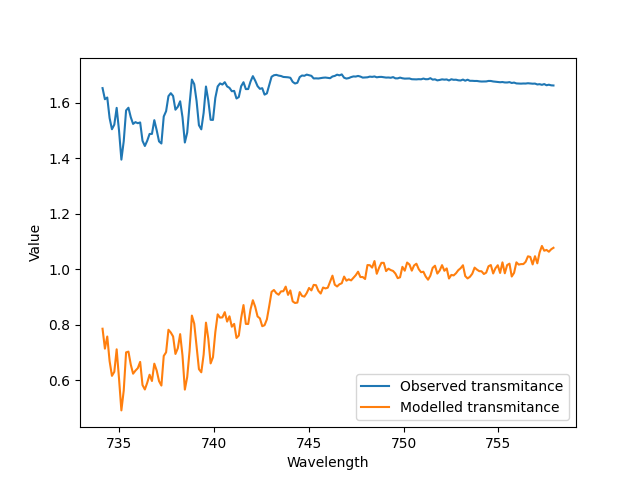
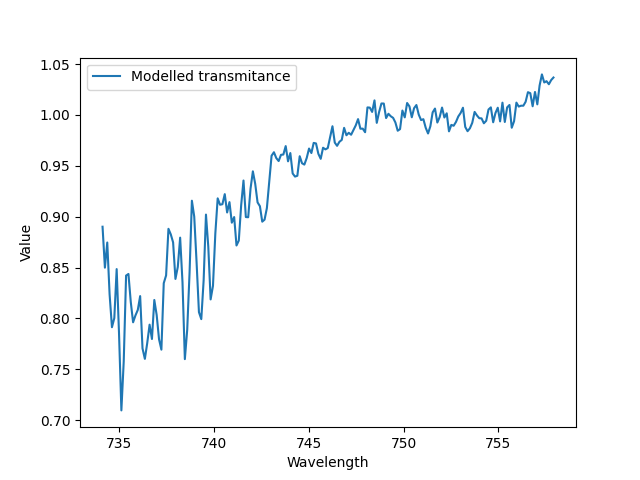
final

diff --git a/PCA.py b/PCA.py
@@ -32,7 +32,7 @@ mean_spectrum = np.mean(tau_value, axis=0)
 tau_centered = tau_value - mean_spectrum
 tau_nan = np.isnan(tau_centered)
 print("Number of NaN values in tau_centered:", np.sum(tau_nan))
-pca = PCA(n_components=50, svd_solver='full').fit(tau_centered)
+pca = PCA(n_components=20, svd_solver='full').fit(tau_centered)
 components = pca.components_
 print(components.shape)
 
@@ -49,7 +49,7 @@ plt.tight_layout()
 #plt.savefig("PCA_tau")
 plt.close()
 
-print(f"Explained variance by 50 PCs: {np.sum(pca.explained_variance_ratio_):.2%}")
+print(f"Explained variance by 20 PCs: {np.sum(pca.explained_variance_ratio_):.2%}")
 
 tau_pca = pca.transform(tau_centered)  
 tau_reconstructed = pca.inverse_transform(tau_pca)  
@@ -142,18 +142,20 @@ for m in m_values:
             plt.xlabel("Wavelength (nm)")
             plt.ylabel("Reflectance")
             plt.legend()
-            plt.savefig("pic_PCA/PCA_fit_reflectance_m3_n50")
+            plt.savefig("pic_PCA/PCA_fit_reflectance_m3_n20")
             plt.close()
 
             b_fit = np.array(popt[m:n+m])
             attenuation_fit = np.dot(b_fit, f_matrix) 
             transmitance_modelled = np.exp(attenuation_fit)
+            print("transmitance_modelled", np.mean(transmitance_modelled))
+            print("surface albedo", np.mean(sum(popt[j] * wl[ind]**j for j in range(m+1))))
         
             plt.plot(wl[ind], transmitance_modelled, label="Modelled transmitance")
             plt.xlabel('Wavelength')
             plt.ylabel('Value')
             plt.legend(loc="best")
-            plt.savefig("pic_PCA/PCA_fit_transmitance_m3_n50")
+            plt.savefig("pic_PCA/PCA_fit_transmitance_m3_n20")
             plt.close()
 
             gaussian_full = np.exp(-0.5 * ((wl[ind] - 737) / 34) ** 2)
@@ -161,7 +163,7 @@ for m in m_values:
             plt.plot(wl[ind], popt[-1]*gaussian_full, color='green')
             plt.xlabel("Wavelength (nm)")
             plt.ylabel("SIF Amplitude - mW m⁻² sr⁻¹ nm⁻¹")
-            plt.savefig("pic_PCA/PCA_fit_SIF_m3_n50")
+            plt.savefig("pic_PCA/PCA_fit_SIF_m3_n20")
             plt.close()
 
             geom_factor = (1 / mu_matrix2[pixel_index]) / ((1 / mu_matrix2[pixel_index]) + (1 / mu_0_matrix2[pixel_index]))
@@ -173,7 +175,7 @@ for m in m_values:
             plt.xlabel("Wavelength (nm)")
             plt.ylabel("Value")
             plt.legend()
-            plt.savefig("pic_PCA/PCA_fit_baseline_n50")
+            plt.savefig("pic_PCA/PCA_fit_baseline_n20")
             plt.close()
       
     SIF_values_per_m[m] = SIF_values_per_scanline
@@ -187,7 +189,7 @@ for m in m_values:
             plt.xlabel("Scanline Index - Excluding error") 
             plt.ylabel("SIF Value - mW m⁻² sr⁻¹ nm⁻¹")
             plt.legend()
-            plt.savefig(f"pic_PCA/SIF_values_m_{m}_PCA_n50.png")
+            plt.savefig(f"pic_PCA/SIF_values_m_{m}_PCA_n20.png")
             plt.close()
             print(np.mean(SIF_values), m)
         else:
@@ -232,7 +234,7 @@ for pixel_index, i in enumerate(scanline_nocloud2):
         plt.plot(wl[ind], R_fit, label="Fitted Model Reflectance")
         plt.xlabel("Wavelength (nm)")
         plt.ylabel("Reflectance")
-        plt.savefig("pic_PCA/PCA_fit_reflectance_n50")
+        plt.savefig("pic_PCA/PCA_fit_reflectance_n20")
         plt.legend()
         plt.close()
         
@@ -245,7 +247,7 @@ for pixel_index, i in enumerate(scanline_nocloud2):
         plt.xlabel('Wavelength')
         plt.ylabel('Value')
         plt.legend(loc="best")
-        plt.savefig("pic_PCA/PCA_fit_transmitance_n50")
+        plt.savefig("pic_PCA/PCA_fit_transmitance_n20")
         plt.close()
         
         gaussian_full = np.exp(-0.5 * ((wl[ind] - 737) / 34) ** 2)
@@ -253,19 +255,19 @@ for pixel_index, i in enumerate(scanline_nocloud2):
         plt.plot(wl[ind], popt[-1]*gaussian_full, color='green')
         plt.xlabel("Wavelength (nm)")
         plt.ylabel("SIF Amplitude - mW m⁻² sr⁻¹ nm⁻¹")
-        plt.savefig("pic_PCA/PCA_fit_SIF_n50")
+        plt.savefig("pic_PCA/PCA_fit_SIF_n20")
         plt.close()
         
 plt.figure()
 plt.plot(SIF_values_per_scanline_A)
 plt.xlabel("Scanline Index - Excluding error") 
 plt.ylabel("SIF Value - mW m⁻² sr⁻¹ nm⁻¹")
-plt.savefig("pic_PCA/PCA_SIF_values_per_scanline_A_n50.png")
+plt.savefig("pic_PCA/PCA_SIF_values_per_scanline_A_n20.png")
 plt.close()
 print(np.mean(SIF_values_per_scanline_A))  
 
 
-output_dir = "PCA_SIF_values_n50"
+output_dir = "PCA_SIF_values_n20"
 os.makedirs(output_dir, exist_ok=True)
 for m, SIF_values in SIF_values_per_m.items():
     np.save(os.path.join(output_dir, f"SIF_values_m_{m}.npy"), SIF_values)

diff --git a/TROPOSIF_mean.py b/TROPOSIF_mean.py
@@ -1,0 +1,72 @@
+import xarray as xr
+import numpy as np
+import os
+import re
+import numpy as np
+import numpy as np
+
+
+
+
+
+lat_min, lat_max = -30, 15
+lon_min, lon_max = -75, -50
+
+sif_amazon = []
+time_list = []
+
+data_dir = data_dir = "/Users/carmenoliver/Desktop/SIFRETRIEVAL/DATA/SIF_DATA_TROPOMI/"
+
+files = sorted([f for f in os.listdir(data_dir) if f.endswith(".nc")])
+print("Files found:", files)
+for file in files:
+    match = re.search(r"month-(\d{6})", file)
+    if match:
+        date_str = match.group(1)  
+        year = int(date_str[:4])  
+        month = int(date_str[4:6])  
+
+        file_path = os.path.join(data_dir, file)
+        
+        try:
+            ds = xr.open_dataset(file_path)
+        except Exception as e:
+            print(f"Error opening {file_path}: {e}")
+            continue
+        ds_amazon = ds.sel(latitude=slice(lat_min, lat_max), longitude=slice(lon_min, lon_max))
+        
+        sif_amazon.append(ds_amazon["solar_induced_fluorescence"].values)  
+        time_list.append(f"{year}-{month:02d}")
+
+if not sif_amazon or not time_list:
+    raise ValueError("No valid data found. Check the input files and filtering logic.")
+sif_amazon = np.stack(sif_amazon, axis=0).squeeze()  # Shape: [N_months, lat, lon]
+
+years = sorted(set(int(t.split("-")[0]) for t in time_list))
+num_years = len(years)
+
+sif_monthly = np.full((num_years, 12, *sif_amazon.shape[1:]), np.nan)
+for i, month_data in enumerate(sif_amazon):
+    year_idx = i // 12  
+    month_idx = i % 12  
+    sif_monthly[year_idx, month_idx] = month_data 
+
+print("Fixed sif_monthly shape:", sif_monthly.shape)
+
+
+
+
+year_idx_2024 = years.index(2024)
+month_idx_jan = 0  # January
+
+lat_grid = np.linspace(lat_min, lat_max, sif_monthly.shape[2])
+lon_grid = np.linspace(lon_min, lon_max, sif_monthly.shape[3])
+
+lat_mask = (lat_grid >= -25) & (lat_grid <= 5)
+lon_mask = (lon_grid >= -65) & (lon_grid <= -60)
+
+sif_jan_2024_region = sif_monthly[year_idx_2024, month_idx_jan][np.ix_(lat_mask, lon_mask)]
+mean_sif_jan_2024_region = np.nanmean(sif_jan_2024_region)
+median_sif_jan_2024_region = np.nanmedian(sif_jan_2024_region)
+print("Mean SIF in January 2024 over lat -25 to 5, lon -65 to -60:", mean_sif_jan_2024_region)
+print("median:", median_sif_jan_2024_region)

diff --git a/KPCA.py b/KPCA.py
@@ -133,9 +133,13 @@ for m in m_values:
 
             b_fit = np.array(popt[m:n+m])
             attenuation_fit = np.dot(b_fit, f_matrix)  
+            transmitance_modelled = np.exp(-attenuation_fit)
+
+            print("transmitance modelled:", np.mean(transmitance_modelled))
+            print("surface albedo:", np.mean(sum(popt[j] * wl[ind]**j for j in range(m+1))))
+
 
             plt.figure()
-            transmitance_modelled = np.exp(-attenuation_fit)
             plt.plot(wl[ind], transmitance_modelled, label="Modelled transmitance")
             plt.xlabel('Wavelength')
             plt.ylabel('Value')
@@ -152,8 +156,6 @@ for m in m_values:
             plt.ylabel("SIF Amplitude - mW m⁻² nm⁻¹")
             plt.savefig("pic_kpca/KPCA_fit_SIF_m2")
             plt.close()
-            print("surface albedo:", sum(popt[j] * wl[ind]**j for j in range(m+1)).shape, np.mean(sum(popt[j] * wl[ind]**j for j in range(m+1)), axis=0))
-
             
             geom_factor = (1 / mu_matrix2[100]) / ((1 / mu_matrix2[100]) + (1 / mu_0_matrix2[100]))
             baseline_fit = sum(popt[j] * wl[ind]**j for j in range(m+1)) * np.exp(-attenuation_fit)

diff --git a/Mean.py b/Mean.py
@@ -129,9 +129,11 @@ for m in m_values:
 
             b_fit = np.array(popt[m:n+m])
             attenuation_fit = np.dot(b_fit, f_matrix)  
-
-            plt.figure()
             transmitance_modelled = np.exp(-attenuation_fit)
+
+            print("surface albedo:", np.mean(sum(popt[j] * wl[ind]**j for j in range(m+1))))
+            print("transmittance:",np.mean(transmitance_modelled))
+            plt.figure()
             plt.plot(wl[ind], transmitance_modelled, label="Modelled transmitance")
             plt.xlabel('Wavelength')
             plt.ylabel('Value')
